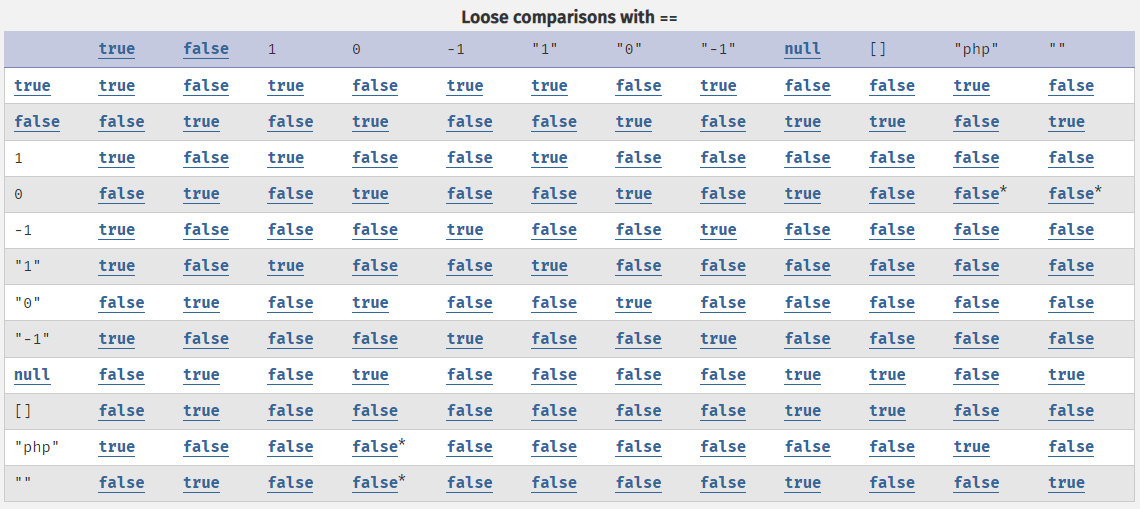
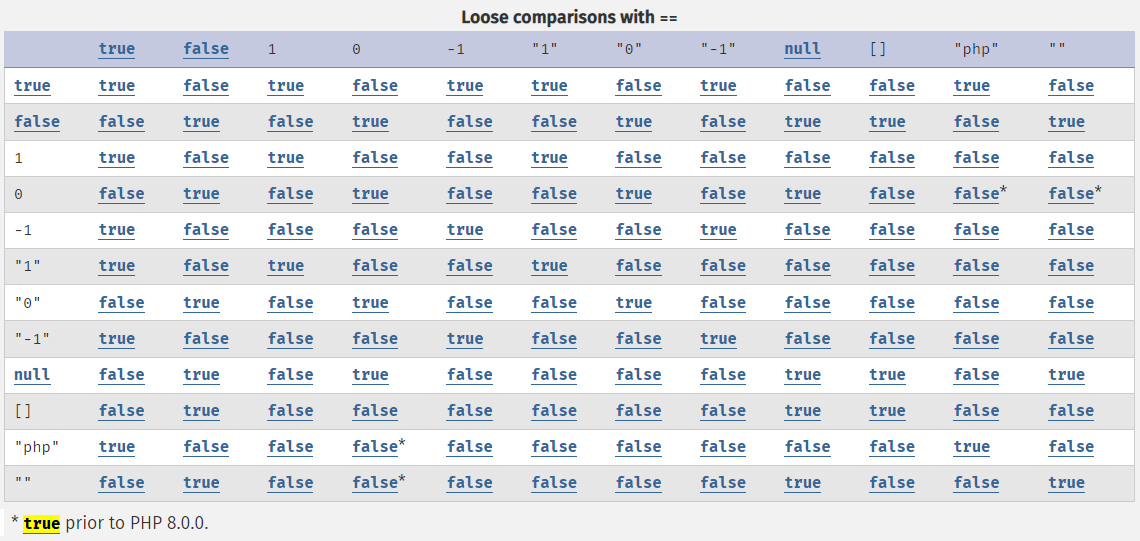
change loose comparison table

diff --git a/_posts/2024-06-13-type-juggling-vulnerability.md b/_posts/2024-06-13-type-juggling-vulnerability.md
@@ -44,6 +44,8 @@ Versus
 </p>
 <p align="center">Strict comparisons table</p>
 
+Take a look on the differences between those tables, 
+
 
 ### Conclusion
 
